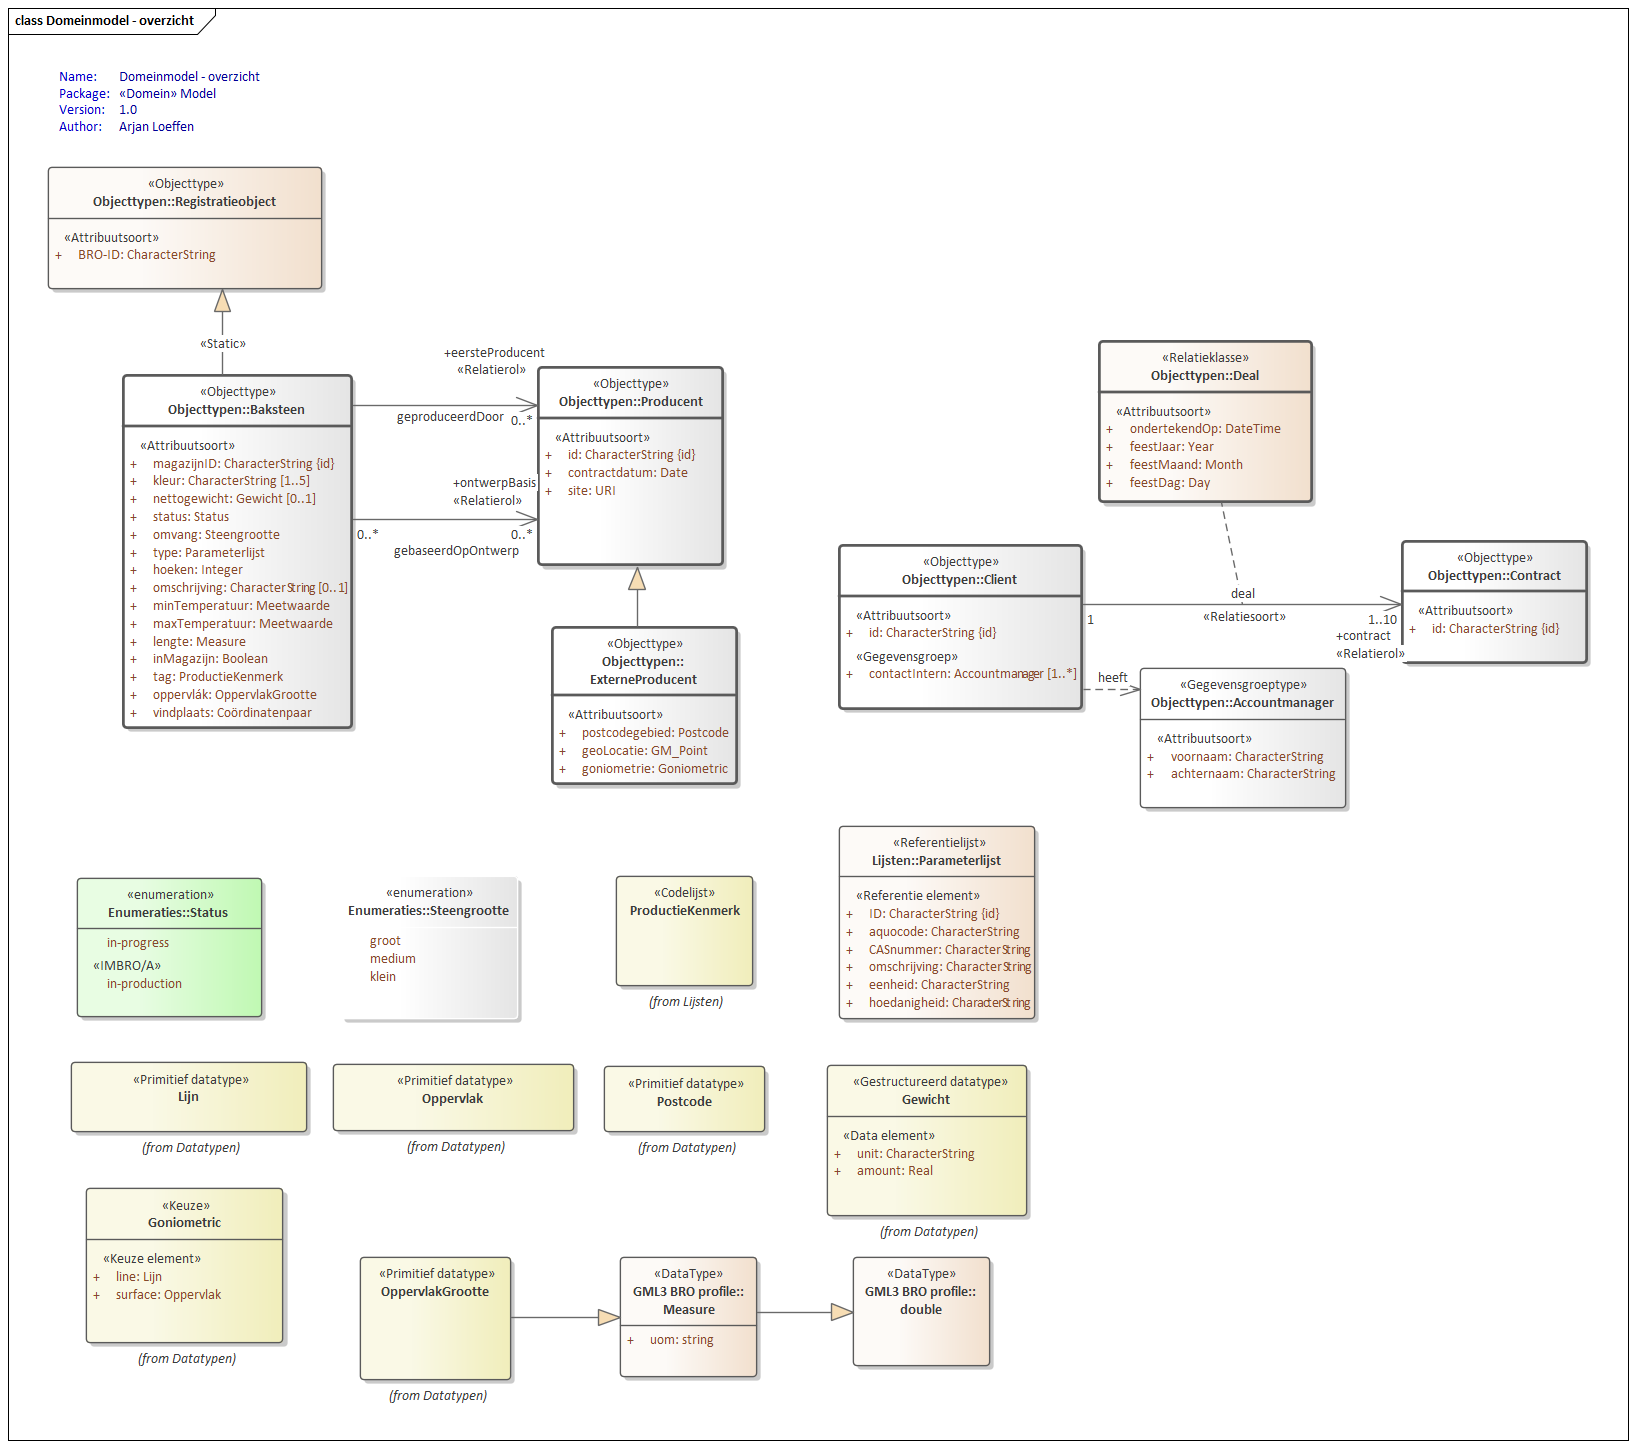
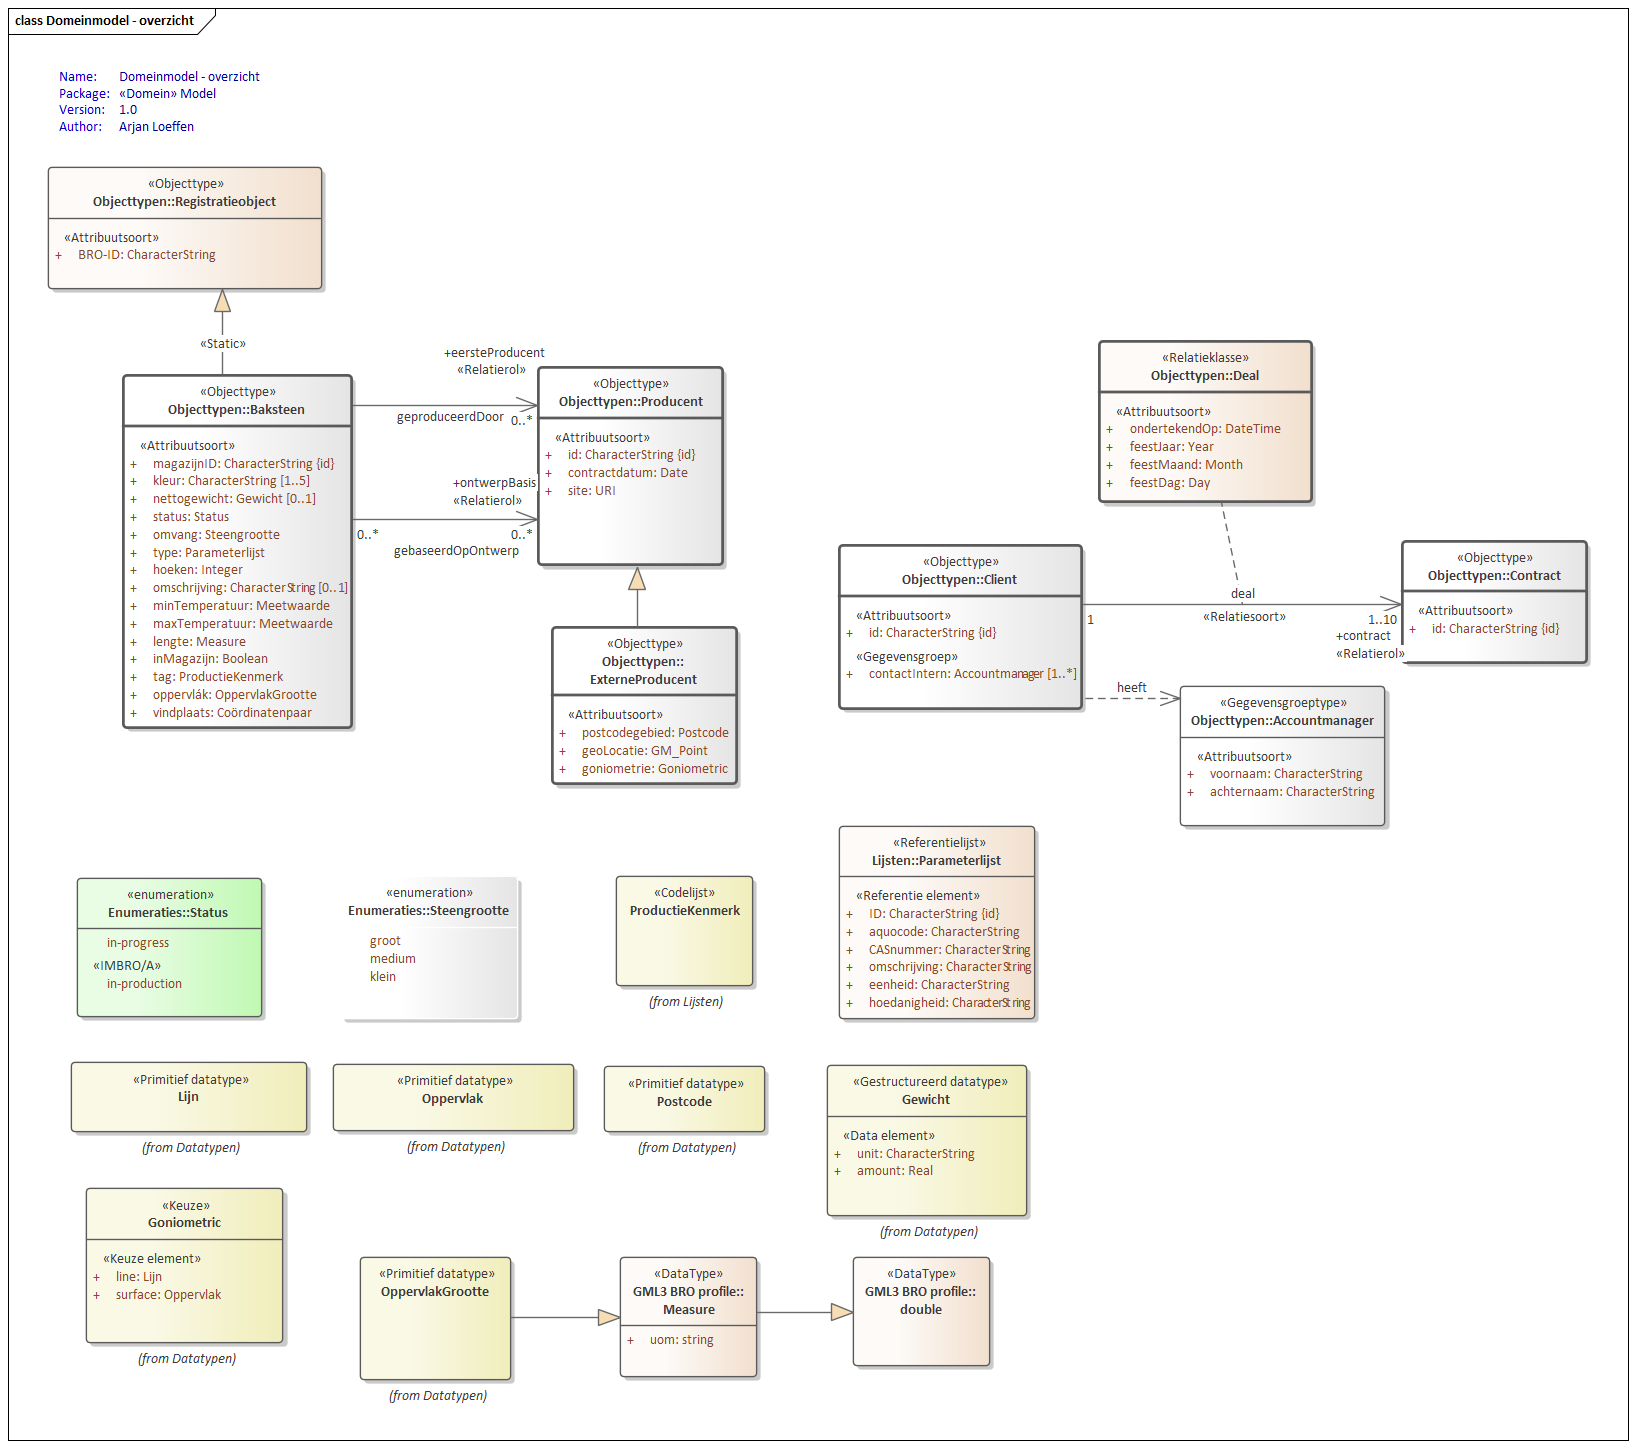
Conceptualmodel-SampleBaseSAMPLE-1.0.0-2-20130318-20201213-153945

Changed region(s): [[0.6546, 0.4662, 0.8729, 0.5905]]

diff --git a/data/SAMPLE-cat.msword.html b/data/SAMPLE-cat.msword.html
@@ -1,4 +1,4 @@
-<html>
+<!DOCTYPE HTML><html>
    <head>
       <meta http-equiv="Content-Type" content="text/html; charset=UTF-8">
       <title>Conceptual model/SampleBase (SAMPLE)/20130318</title>
@@ -15,7 +15,7 @@
    <body>
       <p>Conceptual model/SampleBase (SAMPLE)/20130318</p>
       <p>Imvertor: 1.62.3</p>
-      <p>Model release: Conceptualmodel-SampleBaseSAMPLE-1.0.0-2-20130318-20201211-193932</p>
+      <p>Model release: Conceptualmodel-SampleBaseSAMPLE-1.0.0-2-20130318-20201213-153945</p>
       <hr>
       <section>
          <h1>Artikel 1 Definitie van registratieobject, entiteiten en attributen</h1>
@@ -53,7 +53,7 @@
          <section>
             <h2>Het domeinmodel</h2>
             <section id="">
-               <div class="imageinfo overview"><img src="Images/EAID_08513AA0_8A50_46c1_AD86_9B80D9A6AAE1.png" usemap="#imagemap-EAID_08513AA0_8A50_46c1_AD86_9B80D9A6AAE1" alt="Diagram Overzicht van alle constructies in dit conceptuele model."><map name="imagemap-EAID_08513AA0_8A50_46c1_AD86_9B80D9A6AAE1"><area shape="rect" alt="ProductieKenmerk" coords="616,876,753,986" href="#graph_EAID_4D78F0AD_88ED_44ef_9A76_163426CD74D1"><area shape="rect" alt="Parameterlijst" coords="839,826,1035,1019" href="#graph_EAID_44AEBC38_4744_431f_B31C_D809E3AA7D52"><area shape="rect" alt="Registratieobject" coords="48,167,322,289" href="#graph_EAID_9E9289AB_19E6_48af_87FD_8BC9E0875C28"><area shape="rect" alt="Steengrootte" coords="340,876,518,1019" href="#graph_EAID_65363897_E229_41fd_BE6F_E6B1BACAD458"><area shape="rect" alt="Accountmanager" coords="1140,668,1346,808" href="#graph_EAID_29D6B892_B943_494c_94C7_A13DB031E998"><area shape="rect" alt="Status" coords="77,878,262,1017" href="#graph_EAID_E86D21EE_58FD_4975_9CCB_AFF2434704A8"><area shape="rect" alt="ExterneProducent" coords="552,627,737,784" href="#graph_EAID_E2C93214_90E2_4151_B719_7BB8CDF8679F"><area shape="rect" alt="Baksteen" coords="123,375,352,728" href="#graph_EAID_CF7C4448_E50C_4c7a_B1D0_C4FCB2EB1814"><area shape="rect" alt="Producent" coords="538,367,723,565" href="#graph_EAID_04EED45C_4D30_41b9_83EE_65237E1F8E27"><area shape="rect" alt="Contract" coords="1402,541,1587,663" href="#graph_EAID_77987690_1141_457d_A33B_E1C7AA1EA812"><area shape="rect" alt="Client" coords="839,545,1082,709" href="#graph_EAID_DF955A82_3E49_4c9d_9C0C_74738600FE1B"></map><p><b>Domeinmodel</b> — Overzicht van alle constructies in dit conceptuele model.</p>
+               <div class="imageinfo overview"><img src="Images/EAID_08513AA0_8A50_46c1_AD86_9B80D9A6AAE1.png" usemap="#imagemap-EAID_08513AA0_8A50_46c1_AD86_9B80D9A6AAE1" alt="Diagram Overzicht van alle constructies in dit conceptuele model."><map name="imagemap-EAID_08513AA0_8A50_46c1_AD86_9B80D9A6AAE1"><area shape="rect" alt="ProductieKenmerk" coords="616,876,753,986" href="#graph_EAID_4D78F0AD_88ED_44ef_9A76_163426CD74D1"><area shape="rect" alt="Parameterlijst" coords="839,826,1035,1019" href="#graph_EAID_44AEBC38_4744_431f_B31C_D809E3AA7D52"><area shape="rect" alt="Registratieobject" coords="48,167,322,289" href="#graph_EAID_9E9289AB_19E6_48af_87FD_8BC9E0875C28"><area shape="rect" alt="Steengrootte" coords="340,876,518,1019" href="#graph_EAID_65363897_E229_41fd_BE6F_E6B1BACAD458"><area shape="rect" alt="Accountmanager" coords="1180,686,1385,826" href="#graph_EAID_29D6B892_B943_494c_94C7_A13DB031E998"><area shape="rect" alt="Status" coords="77,878,262,1017" href="#graph_EAID_E86D21EE_58FD_4975_9CCB_AFF2434704A8"><area shape="rect" alt="ExterneProducent" coords="552,627,737,784" href="#graph_EAID_E2C93214_90E2_4151_B719_7BB8CDF8679F"><area shape="rect" alt="Baksteen" coords="123,375,352,728" href="#graph_EAID_CF7C4448_E50C_4c7a_B1D0_C4FCB2EB1814"><area shape="rect" alt="Producent" coords="538,367,723,565" href="#graph_EAID_04EED45C_4D30_41b9_83EE_65237E1F8E27"><area shape="rect" alt="Contract" coords="1402,541,1587,663" href="#graph_EAID_77987690_1141_457d_A33B_E1C7AA1EA812"><area shape="rect" alt="Client" coords="839,545,1082,709" href="#graph_EAID_DF955A82_3E49_4c9d_9C0C_74738600FE1B"></map><p><b>Domeinmodel</b> — Overzicht van alle constructies in dit conceptuele model.</p>
                </div>
             </section>
          </section>
@@ -1140,7 +1140,7 @@
                            </tr>
                         </tbody>
                      </table>
-                     </section><a class="anchor" id="detail_d18025e4195"></a><section id="detail_d18025e4195">
+                     </section><a class="anchor" id="detail_d18020e4195"></a><section id="detail_d18020e4195">
                      <h4>  contactIntern</h4>
                      
                      
